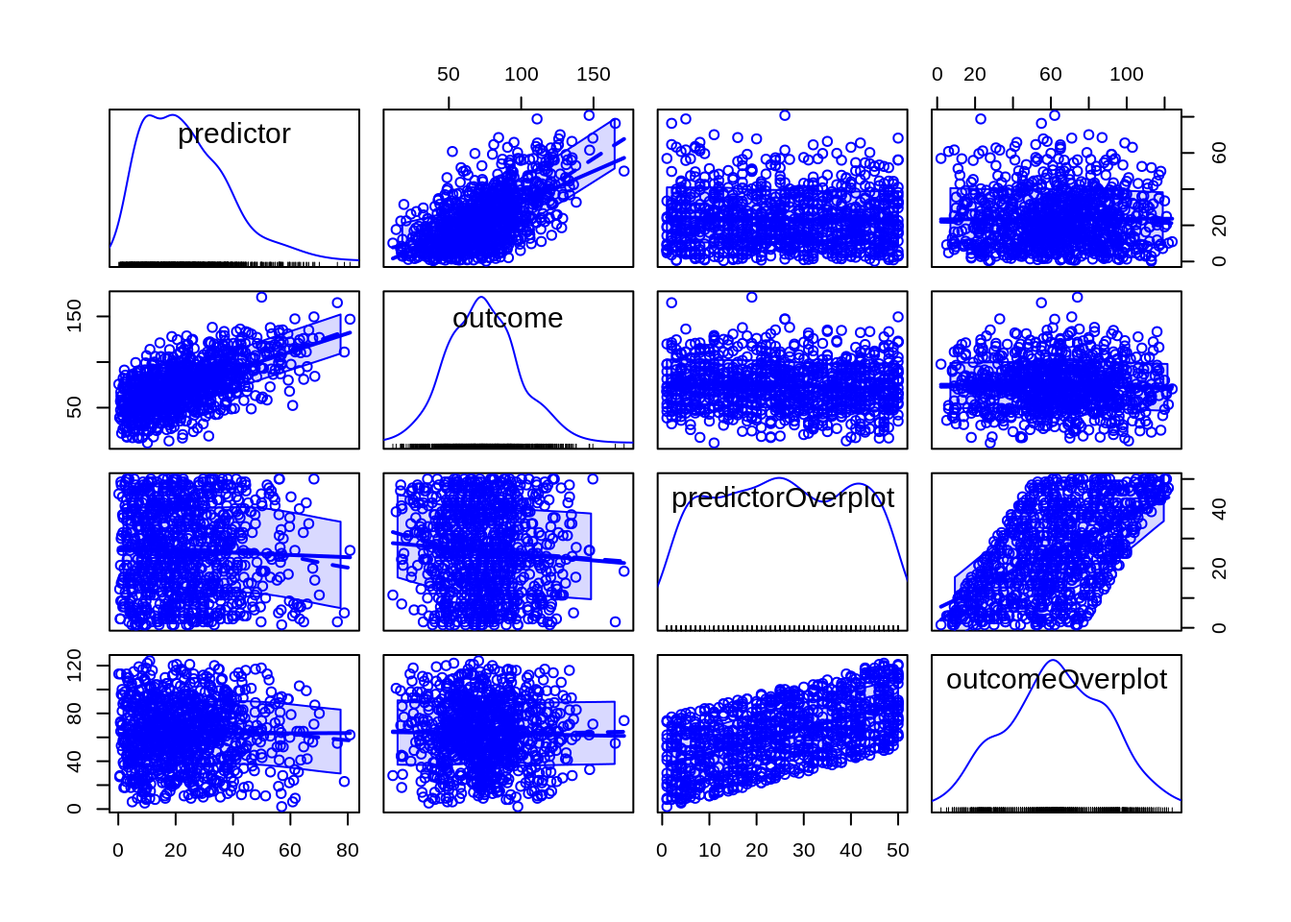
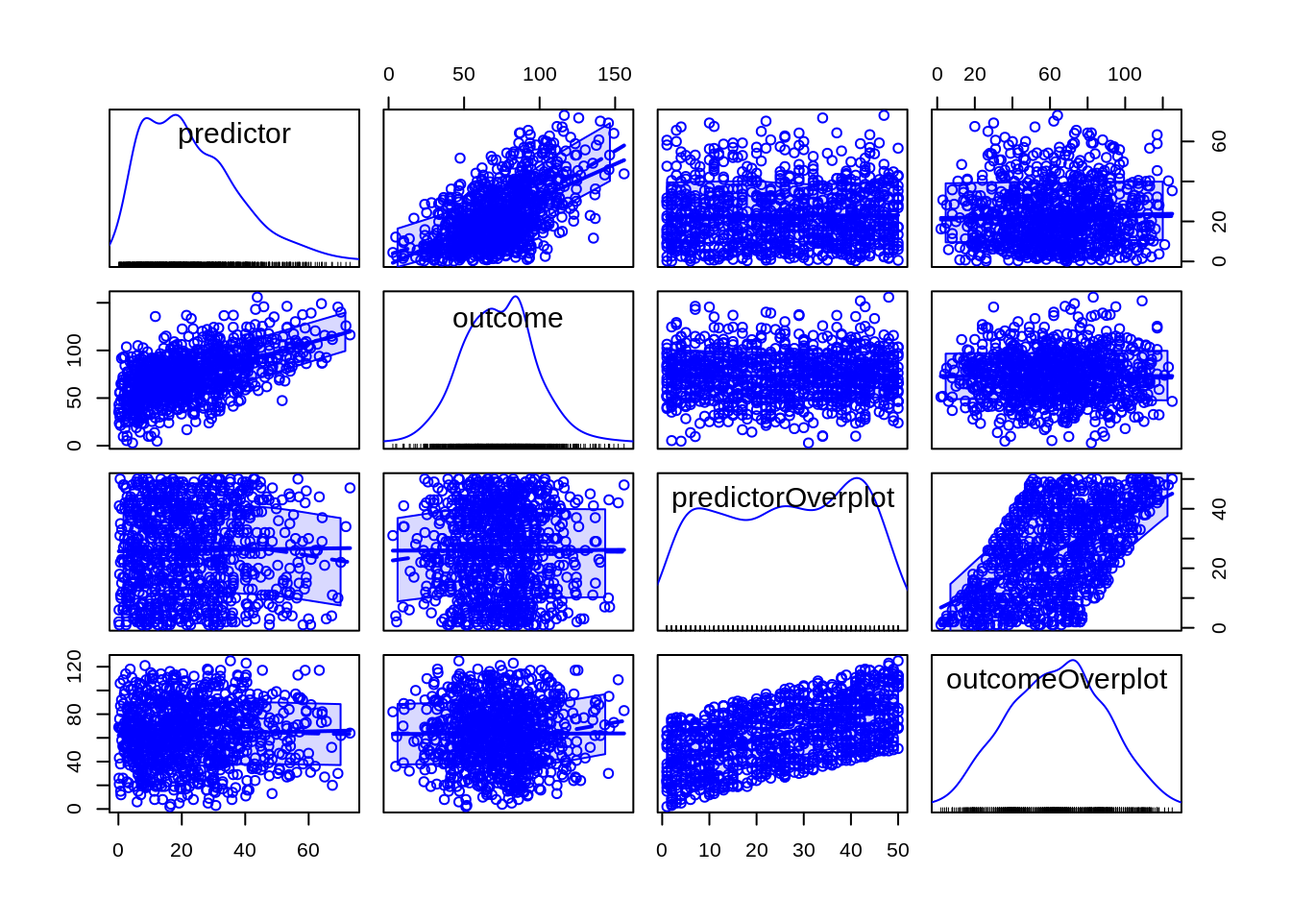
isaactpetersen published a site update

diff --git a/analysis-eda.html b/analysis-eda.html
@@ -512,7 +512,7 @@ df[sample(1:n, size = 70), &quot;categorical2&quot;] &lt;- NA</code></pre>
 <pre class="r"><code>round(data.frame(psych::describe(df)), 2)</code></pre>
 <div data-pagedtable="false">
 <script data-pagedtable-source type="application/json">
-{"columns":[{"label":[""],"name":["_rn_"],"type":[""],"align":["left"]},{"label":["vars"],"name":[1],"type":["dbl"],"align":["right"]},{"label":["n"],"name":[2],"type":["dbl"],"align":["right"]},{"label":["mean"],"name":[3],"type":["dbl"],"align":["right"]},{"label":["sd"],"name":[4],"type":["dbl"],"align":["right"]},{"label":["median"],"name":[5],"type":["dbl"],"align":["right"]},{"label":["trimmed"],"name":[6],"type":["dbl"],"align":["right"]},{"label":["mad"],"name":[7],"type":["dbl"],"align":["right"]},{"label":["min"],"name":[8],"type":["dbl"],"align":["right"]},{"label":["max"],"name":[9],"type":["dbl"],"align":["right"]},{"label":["range"],"name":[10],"type":["dbl"],"align":["right"]},{"label":["skew"],"name":[11],"type":["dbl"],"align":["right"]},{"label":["kurtosis"],"name":[12],"type":["dbl"],"align":["right"]},{"label":["se"],"name":[13],"type":["dbl"],"align":["right"]}],"data":[{"1":"1","2":"1000","3":"50.50","4":"28.88","5":"50.50","6":"50.50","7":"37.06","8":"1.00","9":"100.00","10":"99.00","11":"0.00","12":"-1.20","13":"0.91","_rn_":"ID"},{"1":"2","2":"990","3":"23.51","4":"14.93","5":"21.52","6":"22.20","7":"15.31","8":"0.18","9":"80.77","10":"80.59","11":"0.78","12":"0.36","13":"0.47","_rn_":"predictor"},{"1":"3","2":"990","3":"73.97","4":"25.41","5":"73.02","6":"73.25","7":"25.78","8":"11.26","9":"171.12","10":"159.87","11":"0.28","12":"0.03","13":"0.81","_rn_":"outcome"},{"1":"4","2":"990","3":"25.86","4":"14.40","5":"26.00","6":"25.90","7":"17.79","8":"1.00","9":"50.00","10":"49.00","11":"-0.01","12":"-1.19","13":"0.46","_rn_":"predictorOverplot"},{"1":"5","2":"990","3":"63.11","4":"26.43","5":"63.00","6":"63.23","7":"28.17","8":"2.00","9":"124.00","10":"122.00","11":"-0.04","12":"-0.67","13":"0.84","_rn_":"outcomeOverplot"},{"1":"6","2":"970","3":"2.99","4":"1.43","5":"3.00","6":"2.99","7":"1.48","8":"1.00","9":"5.00","10":"4.00","11":"0.03","12":"-1.33","13":"0.05","_rn_":"categorical1"},{"1":"7","2":"930","3":"3.06","4":"1.42","5":"3.00","6":"3.08","7":"1.48","8":"1.00","9":"5.00","10":"4.00","11":"-0.06","12":"-1.31","13":"0.05","_rn_":"categorical2"}],"options":{"columns":{"min":{},"max":[10]},"rows":{"min":[10],"max":[10]},"pages":{}}}
+{"columns":[{"label":[""],"name":["_rn_"],"type":[""],"align":["left"]},{"label":["vars"],"name":[1],"type":["dbl"],"align":["right"]},{"label":["n"],"name":[2],"type":["dbl"],"align":["right"]},{"label":["mean"],"name":[3],"type":["dbl"],"align":["right"]},{"label":["sd"],"name":[4],"type":["dbl"],"align":["right"]},{"label":["median"],"name":[5],"type":["dbl"],"align":["right"]},{"label":["trimmed"],"name":[6],"type":["dbl"],"align":["right"]},{"label":["mad"],"name":[7],"type":["dbl"],"align":["right"]},{"label":["min"],"name":[8],"type":["dbl"],"align":["right"]},{"label":["max"],"name":[9],"type":["dbl"],"align":["right"]},{"label":["range"],"name":[10],"type":["dbl"],"align":["right"]},{"label":["skew"],"name":[11],"type":["dbl"],"align":["right"]},{"label":["kurtosis"],"name":[12],"type":["dbl"],"align":["right"]},{"label":["se"],"name":[13],"type":["dbl"],"align":["right"]}],"data":[{"1":"1","2":"1000","3":"50.50","4":"28.88","5":"50.50","6":"50.50","7":"37.06","8":"1.00","9":"100.00","10":"99.00","11":"0.00","12":"-1.20","13":"0.91","_rn_":"ID"},{"1":"2","2":"990","3":"22.88","4":"14.90","5":"20.39","6":"21.56","7":"15.45","8":"0.13","9":"73.05","10":"72.92","11":"0.74","12":"0.08","13":"0.47","_rn_":"predictor"},{"1":"3","2":"990","3":"73.06","4":"24.91","5":"72.69","6":"72.74","7":"24.39","8":"2.84","9":"155.91","10":"153.08","11":"0.15","12":"0.10","13":"0.79","_rn_":"outcome"},{"1":"4","2":"990","3":"26.03","4":"14.65","5":"26.50","6":"26.20","7":"18.53","8":"1.00","9":"50.00","10":"49.00","11":"-0.09","12":"-1.24","13":"0.47","_rn_":"predictorOverplot"},{"1":"5","2":"990","3":"63.50","4":"25.74","5":"64.00","6":"63.62","7":"28.17","8":"2.00","9":"125.00","10":"123.00","11":"-0.04","12":"-0.65","13":"0.82","_rn_":"outcomeOverplot"},{"1":"6","2":"970","3":"3.08","4":"1.39","5":"3.00","6":"3.09","7":"1.48","8":"1.00","9":"5.00","10":"4.00","11":"-0.05","12":"-1.27","13":"0.04","_rn_":"categorical1"},{"1":"7","2":"930","3":"3.03","4":"1.41","5":"3.00","6":"3.04","7":"1.48","8":"1.00","9":"5.00","10":"4.00","11":"-0.06","12":"-1.29","13":"0.05","_rn_":"categorical2"}],"options":{"columns":{"min":{},"max":[10]},"rows":{"min":[10],"max":[10]},"pages":{}}}
   </script>
 </div>
 <div id="sample" class="section level2" number="4.1">
@@ -556,8 +556,8 @@ categorical2      0.07</code></pre>
   sapply(function(x) table(x, useNA = &quot;always&quot;)) %&gt;% 
   t()</code></pre>
 <pre><code>               1   2   3   4   5 &lt;NA&gt;
-categorical1 196 206 184 181 203   30
-categorical2 175 184 178 195 198   70</code></pre>
+categorical1 164 207 191 208 200   30
+categorical2 188 165 192 199 186   70</code></pre>
 </div>
 <div id="central-tendency" class="section level2" number="4.3">
 <h2><span class="header-section-number">4.3</span> Central Tendency</h2>
@@ -566,20 +566,20 @@ categorical2 175 184 178 195 198   70</code></pre>
 </ul>
 <pre class="r"><code>round(colMeans(df, na.rm = TRUE), 2)</code></pre>
 <pre><code>               ID         predictor           outcome predictorOverplot 
-            50.50             23.51             73.97             25.86 
+            50.50             22.88             73.06             26.03 
   outcomeOverplot      categorical1      categorical2 
-            63.11              2.99              3.06 </code></pre>
+            63.50              3.08              3.03 </code></pre>
 <pre class="r"><code>round(apply(df, 2, function(x) mean(x, na.rm = TRUE)), 2)</code></pre>
 <pre><code>               ID         predictor           outcome predictorOverplot 
-            50.50             23.51             73.97             25.86 
+            50.50             22.88             73.06             26.03 
   outcomeOverplot      categorical1      categorical2 
-            63.11              2.99              3.06 </code></pre>
+            63.50              3.08              3.03 </code></pre>
 <pre class="r"><code>df %&gt;% 
   summarise_all(list(~ mean(., na.rm = TRUE))) %&gt;% 
   round(., 2)</code></pre>
 <div data-pagedtable="false">
 <script data-pagedtable-source type="application/json">
-{"columns":[{"label":["ID"],"name":[1],"type":["dbl"],"align":["right"]},{"label":["predictor"],"name":[2],"type":["dbl"],"align":["right"]},{"label":["outcome"],"name":[3],"type":["dbl"],"align":["right"]},{"label":["predictorOverplot"],"name":[4],"type":["dbl"],"align":["right"]},{"label":["outcomeOverplot"],"name":[5],"type":["dbl"],"align":["right"]},{"label":["categorical1"],"name":[6],"type":["dbl"],"align":["right"]},{"label":["categorical2"],"name":[7],"type":["dbl"],"align":["right"]}],"data":[{"1":"50.5","2":"23.51","3":"73.97","4":"25.86","5":"63.11","6":"2.99","7":"3.06"}],"options":{"columns":{"min":{},"max":[10]},"rows":{"min":[10],"max":[10]},"pages":{}}}
+{"columns":[{"label":["ID"],"name":[1],"type":["dbl"],"align":["right"]},{"label":["predictor"],"name":[2],"type":["dbl"],"align":["right"]},{"label":["outcome"],"name":[3],"type":["dbl"],"align":["right"]},{"label":["predictorOverplot"],"name":[4],"type":["dbl"],"align":["right"]},{"label":["outcomeOverplot"],"name":[5],"type":["dbl"],"align":["right"]},{"label":["categorical1"],"name":[6],"type":["dbl"],"align":["right"]},{"label":["categorical2"],"name":[7],"type":["dbl"],"align":["right"]}],"data":[{"1":"50.5","2":"22.88","3":"73.06","4":"26.03","5":"63.5","6":"3.08","7":"3.03"}],"options":{"columns":{"min":{},"max":[10]},"rows":{"min":[10],"max":[10]},"pages":{}}}
   </script>
 </div>
 <ul>
@@ -587,15 +587,15 @@ categorical2 175 184 178 195 198   70</code></pre>
 </ul>
 <pre class="r"><code>round(apply(df, 2, function(x) median(x, na.rm = TRUE)), 2)</code></pre>
 <pre><code>               ID         predictor           outcome predictorOverplot 
-            50.50             21.52             73.02             26.00 
+            50.50             20.39             72.69             26.50 
   outcomeOverplot      categorical1      categorical2 
-            63.00              3.00              3.00 </code></pre>
+            64.00              3.00              3.00 </code></pre>
 <pre class="r"><code>df %&gt;% 
   summarise_all(list(~ median(., na.rm = TRUE))) %&gt;% 
   round(., 2)</code></pre>
 <div data-pagedtable="false">
 <script data-pagedtable-source type="application/json">
-{"columns":[{"label":["ID"],"name":[1],"type":["dbl"],"align":["right"]},{"label":["predictor"],"name":[2],"type":["dbl"],"align":["right"]},{"label":["outcome"],"name":[3],"type":["dbl"],"align":["right"]},{"label":["predictorOverplot"],"name":[4],"type":["dbl"],"align":["right"]},{"label":["outcomeOverplot"],"name":[5],"type":["dbl"],"align":["right"]},{"label":["categorical1"],"name":[6],"type":["dbl"],"align":["right"]},{"label":["categorical2"],"name":[7],"type":["dbl"],"align":["right"]}],"data":[{"1":"50.5","2":"21.52","3":"73.02","4":"26","5":"63","6":"3","7":"3"}],"options":{"columns":{"min":{},"max":[10]},"rows":{"min":[10],"max":[10]},"pages":{}}}
+{"columns":[{"label":["ID"],"name":[1],"type":["dbl"],"align":["right"]},{"label":["predictor"],"name":[2],"type":["dbl"],"align":["right"]},{"label":["outcome"],"name":[3],"type":["dbl"],"align":["right"]},{"label":["predictorOverplot"],"name":[4],"type":["dbl"],"align":["right"]},{"label":["outcomeOverplot"],"name":[5],"type":["dbl"],"align":["right"]},{"label":["categorical1"],"name":[6],"type":["dbl"],"align":["right"]},{"label":["categorical2"],"name":[7],"type":["dbl"],"align":["right"]}],"data":[{"1":"50.5","2":"20.39","3":"72.69","4":"26.5","5":"64","6":"3","7":"3"}],"options":{"columns":{"min":{},"max":[10]},"rows":{"min":[10],"max":[10]},"pages":{}}}
   </script>
 </div>
 <ul>
@@ -603,15 +603,15 @@ categorical2 175 184 178 195 198   70</code></pre>
 </ul>
 <pre class="r"><code>round(apply(df, 2, function(x) Mode(x, multipleModes = &quot;mean&quot;)), 2)</code></pre>
 <pre><code>               ID         predictor           outcome predictorOverplot 
-            50.50             23.51             73.97             25.00 
+            50.50             22.88             73.06             42.00 
   outcomeOverplot      categorical1      categorical2 
-            58.00              2.00              5.00 </code></pre>
+            69.00              4.00              4.00 </code></pre>
 <pre class="r"><code>df %&gt;% 
   summarise_all(list(~ Mode(., multipleModes = &quot;mean&quot;))) %&gt;% 
   round(., 2)</code></pre>
 <div data-pagedtable="false">
 <script data-pagedtable-source type="application/json">
-{"columns":[{"label":["ID"],"name":[1],"type":["dbl"],"align":["right"]},{"label":["predictor"],"name":[2],"type":["dbl"],"align":["right"]},{"label":["outcome"],"name":[3],"type":["dbl"],"align":["right"]},{"label":["predictorOverplot"],"name":[4],"type":["dbl"],"align":["right"]},{"label":["outcomeOverplot"],"name":[5],"type":["dbl"],"align":["right"]},{"label":["categorical1"],"name":[6],"type":["dbl"],"align":["right"]},{"label":["categorical2"],"name":[7],"type":["dbl"],"align":["right"]}],"data":[{"1":"50.5","2":"23.51","3":"73.97","4":"25","5":"58","6":"2","7":"5"}],"options":{"columns":{"min":{},"max":[10]},"rows":{"min":[10],"max":[10]},"pages":{}}}
+{"columns":[{"label":["ID"],"name":[1],"type":["dbl"],"align":["right"]},{"label":["predictor"],"name":[2],"type":["dbl"],"align":["right"]},{"label":["outcome"],"name":[3],"type":["dbl"],"align":["right"]},{"label":["predictorOverplot"],"name":[4],"type":["dbl"],"align":["right"]},{"label":["outcomeOverplot"],"name":[5],"type":["dbl"],"align":["right"]},{"label":["categorical1"],"name":[6],"type":["dbl"],"align":["right"]},{"label":["categorical2"],"name":[7],"type":["dbl"],"align":["right"]}],"data":[{"1":"50.5","2":"22.88","3":"73.06","4":"42","5":"69","6":"4","7":"4"}],"options":{"columns":{"min":{},"max":[10]},"rows":{"min":[10],"max":[10]},"pages":{}}}
   </script>
 </div>
 <p>Compute all of these measures of central tendency:</p>
@@ -628,7 +628,7 @@ categorical2 175 184 178 195 198   70</code></pre>
   rename(mode = Mode)</code></pre>
 <div data-pagedtable="false">
 <script data-pagedtable-source type="application/json">
-{"columns":[{"label":["variable"],"name":[1],"type":["chr"],"align":["left"]},{"label":["mean"],"name":[2],"type":["dbl"],"align":["right"]},{"label":["median"],"name":[3],"type":["dbl"],"align":["right"]},{"label":["mode"],"name":[4],"type":["dbl"],"align":["right"]}],"data":[{"1":"ID","2":"50.50","3":"50.50","4":"50.50"},{"1":"predictor","2":"23.51","3":"21.52","4":"23.51"},{"1":"outcome","2":"73.97","3":"73.02","4":"73.97"},{"1":"predictorOverplot","2":"25.86","3":"26.00","4":"25.00"},{"1":"outcomeOverplot","2":"63.11","3":"63.00","4":"58.00"},{"1":"categorical1","2":"2.99","3":"3.00","4":"2.00"},{"1":"categorical2","2":"3.06","3":"3.00","4":"5.00"}],"options":{"columns":{"min":{},"max":[10]},"rows":{"min":[10],"max":[10]},"pages":{}}}
+{"columns":[{"label":["variable"],"name":[1],"type":["chr"],"align":["left"]},{"label":["mean"],"name":[2],"type":["dbl"],"align":["right"]},{"label":["median"],"name":[3],"type":["dbl"],"align":["right"]},{"label":["mode"],"name":[4],"type":["dbl"],"align":["right"]}],"data":[{"1":"ID","2":"50.50","3":"50.50","4":"50.50"},{"1":"predictor","2":"22.88","3":"20.39","4":"22.88"},{"1":"outcome","2":"73.06","3":"72.69","4":"73.06"},{"1":"predictorOverplot","2":"26.03","3":"26.50","4":"42.00"},{"1":"outcomeOverplot","2":"63.50","3":"64.00","4":"69.00"},{"1":"categorical1","2":"3.08","3":"3.00","4":"4.00"},{"1":"categorical2","2":"3.03","3":"3.00","4":"4.00"}],"options":{"columns":{"min":{},"max":[10]},"rows":{"min":[10],"max":[10]},"pages":{}}}
   </script>
 </div>
 </div>
@@ -657,7 +657,7 @@ categorical2 175 184 178 195 198   70</code></pre>
          kurtosis = kurtosi)</code></pre>
 <div data-pagedtable="false">
 <script data-pagedtable-source type="application/json">
-{"columns":[{"label":["variable"],"name":[1],"type":["chr"],"align":["left"]},{"label":["sd"],"name":[2],"type":["dbl"],"align":["right"]},{"label":["min"],"name":[3],"type":["dbl"],"align":["right"]},{"label":["max"],"name":[4],"type":["dbl"],"align":["right"]},{"label":["skewness"],"name":[5],"type":["dbl"],"align":["right"]},{"label":["kurtosis"],"name":[6],"type":["dbl"],"align":["right"]}],"data":[{"1":"ID","2":"28.88","3":"1.00","4":"100.00","5":"0.00","6":"-1.20"},{"1":"predictor","2":"14.93","3":"0.18","4":"80.77","5":"0.78","6":"0.36"},{"1":"outcome","2":"25.41","3":"11.26","4":"171.12","5":"0.28","6":"0.03"},{"1":"predictorOverplot","2":"14.40","3":"1.00","4":"50.00","5":"-0.01","6":"-1.19"},{"1":"outcomeOverplot","2":"26.43","3":"2.00","4":"124.00","5":"-0.04","6":"-0.67"},{"1":"categorical1","2":"1.43","3":"1.00","4":"5.00","5":"0.03","6":"-1.33"},{"1":"categorical2","2":"1.42","3":"1.00","4":"5.00","5":"-0.06","6":"-1.31"}],"options":{"columns":{"min":{},"max":[10]},"rows":{"min":[10],"max":[10]},"pages":{}}}
+{"columns":[{"label":["variable"],"name":[1],"type":["chr"],"align":["left"]},{"label":["sd"],"name":[2],"type":["dbl"],"align":["right"]},{"label":["min"],"name":[3],"type":["dbl"],"align":["right"]},{"label":["max"],"name":[4],"type":["dbl"],"align":["right"]},{"label":["skewness"],"name":[5],"type":["dbl"],"align":["right"]},{"label":["kurtosis"],"name":[6],"type":["dbl"],"align":["right"]}],"data":[{"1":"ID","2":"28.88","3":"1.00","4":"100.00","5":"0.00","6":"-1.20"},{"1":"predictor","2":"14.90","3":"0.13","4":"73.05","5":"0.74","6":"0.08"},{"1":"outcome","2":"24.91","3":"2.84","4":"155.91","5":"0.15","6":"0.10"},{"1":"predictorOverplot","2":"14.65","3":"1.00","4":"50.00","5":"-0.09","6":"-1.24"},{"1":"outcomeOverplot","2":"25.74","3":"2.00","4":"125.00","5":"-0.04","6":"-0.65"},{"1":"categorical1","2":"1.39","3":"1.00","4":"5.00","5":"-0.05","6":"-1.27"},{"1":"categorical2","2":"1.41","3":"1.00","4":"5.00","5":"-0.06","6":"-1.29"}],"options":{"columns":{"min":{},"max":[10]},"rows":{"min":[10],"max":[10]},"pages":{}}}
   </script>
 </div>
 </div>
@@ -691,14 +691,14 @@ summaryTableTransposed &lt;- summaryTable[-1] %&gt;%
   round(., digits = 2)
 
 cor.table(df, type = &quot;manuscript&quot;)</code></pre>
-<pre><code>                       ID predictor outcome predictorOverplot outcomeOverplot
-1. ID                1.00                                                    
-2. predictor          .05      1.00                                          
-3. outcome           -.04    .59***    1.00                                  
-4. predictorOverplot  .04      -.04   -.07*              1.00                
-5. outcomeOverplot    .04       .00    -.02            .56***            1.00
-6. categorical1      -.01      -.02    -.02               .01            .07*
-7. categorical2      -.01      -.01     .03               .03             .05
+<pre><code>                        ID predictor outcome predictorOverplot outcomeOverplot
+1. ID                 1.00                                                    
+2. predictor           .01      1.00                                          
+3. outcome            -.01    .56***    1.00                                  
+4. predictorOverplot  -.02       .01     .00              1.00                
+5. outcomeOverplot    -.04       .03     .00            .54***            1.00
+6. categorical1        .05      -.05     .03               .00            -.04
+7. categorical2      -.06†      -.01    -.01              .06†            .07*
                      categorical1 categorical2
 1. ID                                         
 2. predictor                                  
@@ -706,11 +706,11 @@ cor.table(df, type = &quot;manuscript&quot;)</code></pre>
 4. predictorOverplot                          
 5. outcomeOverplot                            
 6. categorical1              1.00             
-7. categorical2               .00         1.00</code></pre>
+7. categorical2              -.02         1.00</code></pre>
 <pre class="r"><code>summaryTableTransposed</code></pre>
 <div data-pagedtable="false">
 <script data-pagedtable-source type="application/json">
-{"columns":[{"label":[""],"name":["_rn_"],"type":[""],"align":["left"]},{"label":["ID"],"name":[1],"type":["dbl"],"align":["right"]},{"label":["predictor"],"name":[2],"type":["dbl"],"align":["right"]},{"label":["outcome"],"name":[3],"type":["dbl"],"align":["right"]},{"label":["predictorOverplot"],"name":[4],"type":["dbl"],"align":["right"]},{"label":["outcomeOverplot"],"name":[5],"type":["dbl"],"align":["right"]},{"label":["categorical1"],"name":[6],"type":["dbl"],"align":["right"]},{"label":["categorical2"],"name":[7],"type":["dbl"],"align":["right"]}],"data":[{"1":"1000.00","2":"990.00","3":"990.00","4":"990.00","5":"990.00","6":"970.00","7":"930.00","_rn_":"n"},{"1":"0.00","2":"1.00","3":"1.00","4":"1.00","5":"1.00","6":"3.00","7":"7.00","_rn_":"missingness"},{"1":"50.50","2":"23.51","3":"73.97","4":"25.86","5":"63.11","6":"2.99","7":"3.06","_rn_":"M"},{"1":"28.88","2":"14.93","3":"25.41","4":"14.40","5":"26.43","6":"1.43","7":"1.42","_rn_":"SD"},{"1":"0.00","2":"0.78","3":"0.28","4":"-0.01","5":"-0.04","6":"0.03","7":"-0.06","_rn_":"skewness"},{"1":"-1.20","2":"0.36","3":"0.03","4":"-1.19","5":"-0.67","6":"-1.33","7":"-1.31","_rn_":"kurtosis"}],"options":{"columns":{"min":{},"max":[10]},"rows":{"min":[10],"max":[10]},"pages":{}}}
+{"columns":[{"label":[""],"name":["_rn_"],"type":[""],"align":["left"]},{"label":["ID"],"name":[1],"type":["dbl"],"align":["right"]},{"label":["predictor"],"name":[2],"type":["dbl"],"align":["right"]},{"label":["outcome"],"name":[3],"type":["dbl"],"align":["right"]},{"label":["predictorOverplot"],"name":[4],"type":["dbl"],"align":["right"]},{"label":["outcomeOverplot"],"name":[5],"type":["dbl"],"align":["right"]},{"label":["categorical1"],"name":[6],"type":["dbl"],"align":["right"]},{"label":["categorical2"],"name":[7],"type":["dbl"],"align":["right"]}],"data":[{"1":"1000.00","2":"990.00","3":"990.00","4":"990.00","5":"990.00","6":"970.00","7":"930.00","_rn_":"n"},{"1":"0.00","2":"1.00","3":"1.00","4":"1.00","5":"1.00","6":"3.00","7":"7.00","_rn_":"missingness"},{"1":"50.50","2":"22.88","3":"73.06","4":"26.03","5":"63.50","6":"3.08","7":"3.03","_rn_":"M"},{"1":"28.88","2":"14.90","3":"24.91","4":"14.65","5":"25.74","6":"1.39","7":"1.41","_rn_":"SD"},{"1":"0.00","2":"0.74","3":"0.15","4":"-0.09","5":"-0.04","6":"-0.05","7":"-0.06","_rn_":"skewness"},{"1":"-1.20","2":"0.08","3":"0.10","4":"-1.24","5":"-0.65","6":"-1.27","7":"-1.29","_rn_":"kurtosis"}],"options":{"columns":{"min":{},"max":[10]},"rows":{"min":[10],"max":[10]},"pages":{}}}
   </script>
 </div>
 </div>
@@ -855,84 +855,84 @@ dataEllipse(df_nomissing$predictor, df_nomissing$outcome, levels = c(0.5, .95))<
 <h4><span class="header-section-number">6.3.1.1</span> Pearson Correlations</h4>
 <pre class="r"><code>cor.table(df[,c(&quot;predictor&quot;,&quot;outcome&quot;,&quot;predictorOverplot&quot;,&quot;outcomeOverplot&quot;)])</code></pre>
 <pre><code>                       predictor outcome predictorOverplot outcomeOverplot
-1. predictor.r              1.00  .59***              -.04             .00
-2. sig                        NA     .00               .22             .88
-3. n                         990     980               980             980
-4. outcome.r              .59***    1.00             -.07*            -.02
-5. sig                       .00      NA               .02             .55
+1. predictor.r              1.00  .56***               .01             .03
+2. sig                        NA     .00               .65             .35
+3. n                         990     980               980             981
+4. outcome.r              .56***    1.00               .00             .00
+5. sig                       .00      NA               .93             .92
 6. n                         980     990               980             980
-7. predictorOverplot.r      -.04   -.07*              1.00          .56***
-8. sig                       .22     .02                NA             .00
+7. predictorOverplot.r       .01     .00              1.00          .54***
+8. sig                       .65     .93                NA             .00
 9. n                         980     980               990             980
-10. outcomeOverplot.r        .00    -.02            .56***            1.00
-11. sig                      .88     .55               .00              NA
-12. n                        980     980               980             990</code></pre>
+10. outcomeOverplot.r        .03     .00            .54***            1.00
+11. sig                      .35     .92               .00              NA
+12. n                        981     980               980             990</code></pre>
 <pre class="r"><code>cor.table(df[,c(&quot;predictor&quot;,&quot;outcome&quot;,&quot;predictorOverplot&quot;,&quot;outcomeOverplot&quot;)], type = &quot;manuscript&quot;)</code></pre>
 <pre><code>                     predictor outcome predictorOverplot outcomeOverplot
 1. predictor              1.00                                          
-2. outcome              .59***    1.00                                  
-3. predictorOverplot      -.04   -.07*              1.00                
-4. outcomeOverplot         .00    -.02            .56***            1.00</code></pre>
+2. outcome              .56***    1.00                                  
+3. predictorOverplot       .01     .00              1.00                
+4. outcomeOverplot         .03     .00            .54***            1.00</code></pre>
 <pre class="r"><code>cor.table(df[,c(&quot;predictor&quot;,&quot;outcome&quot;,&quot;predictorOverplot&quot;,&quot;outcomeOverplot&quot;)], type = &quot;manuscriptBig&quot;)</code></pre>
 <pre><code>                     predictor outcome predictorOverplot outcomeOverplot
 1. predictor              1.00                                          
-2. outcome                 .59    1.00                                  
-3. predictorOverplot      -.04    -.07              1.00                
-4. outcomeOverplot         .00    -.02               .56            1.00</code></pre>
+2. outcome                 .56    1.00                                  
+3. predictorOverplot       .01     .00              1.00                
+4. outcomeOverplot         .03     .00               .54            1.00</code></pre>
 </div>
 <div id="spearman-correlations" class="section level4" number="6.3.1.2">
 <h4><span class="header-section-number">6.3.1.2</span> Spearman Correlations</h4>
 <pre class="r"><code>cor.table(df[,c(&quot;predictor&quot;,&quot;outcome&quot;,&quot;predictorOverplot&quot;,&quot;outcomeOverplot&quot;)], correlation = &quot;spearman&quot;)</code></pre>
 <pre><code>                       predictor outcome predictorOverplot outcomeOverplot
-1. predictor.r              1.00  .56***              -.03             .03
-2. sig                        NA     .00               .40             .43
-3. n                         990     980               980             980
-4. outcome.r              .56***    1.00             -.07*            -.02
-5. sig                       .00      NA               .04             .49
+1. predictor.r              1.00  .53***               .03             .04
+2. sig                        NA     .00               .30             .26
+3. n                         990     980               980             981
+4. outcome.r              .53***    1.00               .00            -.01
+5. sig                       .00      NA               .99             .73
 6. n                         980     990               980             980
-7. predictorOverplot.r      -.03   -.07*              1.00          .53***
-8. sig                       .40     .04                NA             .00
+7. predictorOverplot.r       .03     .00              1.00          .52***
+8. sig                       .30     .99                NA             .00
 9. n                         980     980               990             980
-10. outcomeOverplot.r        .03    -.02            .53***            1.00
-11. sig                      .43     .49               .00              NA
-12. n                        980     980               980             990</code></pre>
+10. outcomeOverplot.r        .04    -.01            .52***            1.00
+11. sig                      .26     .73               .00              NA
+12. n                        981     980               980             990</code></pre>
 <pre class="r"><code>cor.table(df[,c(&quot;predictor&quot;,&quot;outcome&quot;,&quot;predictorOverplot&quot;,&quot;outcomeOverplot&quot;)], type = &quot;manuscript&quot;, correlation = &quot;spearman&quot;)</code></pre>
 <pre><code>                     predictor outcome predictorOverplot outcomeOverplot
 1. predictor              1.00                                          
-2. outcome              .56***    1.00                                  
-3. predictorOverplot      -.03   -.07*              1.00                
-4. outcomeOverplot         .03    -.02            .53***            1.00</code></pre>
+2. outcome              .53***    1.00                                  
+3. predictorOverplot       .03     .00              1.00                
+4. outcomeOverplot         .04    -.01            .52***            1.00</code></pre>
 <pre class="r"><code>cor.table(df[,c(&quot;predictor&quot;,&quot;outcome&quot;,&quot;predictorOverplot&quot;,&quot;outcomeOverplot&quot;)], type = &quot;manuscriptBig&quot;, correlation = &quot;spearman&quot;)</code></pre>
 <pre><code>                     predictor outcome predictorOverplot outcomeOverplot
 1. predictor              1.00                                          
-2. outcome                 .56    1.00                                  
-3. predictorOverplot      -.03    -.07              1.00                
-4. outcomeOverplot         .03    -.02               .53            1.00</code></pre>
+2. outcome                 .53    1.00                                  
+3. predictorOverplot       .03     .00              1.00                
+4. outcomeOverplot         .04    -.01               .52            1.00</code></pre>
 </div>
 <div id="partial-correlations" class="section level4" number="6.3.1.3">
 <h4><span class="header-section-number">6.3.1.3</span> Partial Correlations</h4>
 <p>Examine the associations among variables controlling for a covariate (<code>outcomeOverplot</code>).</p>
 <pre class="r"><code>partialcor.table(df[,c(&quot;predictor&quot;,&quot;outcome&quot;,&quot;predictorOverplot&quot;)], z = df[,c(&quot;outcomeOverplot&quot;)])</code></pre>
 <pre><code>                       predictor outcome predictorOverplot
-1. predictor.r              1.00  .59***              -.05
-2. sig                        NA     .00               .12
-3. n                         980     970               970
-4. outcome.r              .59***    1.00             -.08*
-5. sig                       .00      NA               .02
-6. n                         970     980               970
-7. predictorOverplot.r      -.05   -.08*              1.00
-8. sig                       .12     .02                NA
-9. n                         970     970               980</code></pre>
+1. predictor.r              1.00  .56***               .00
+2. sig                        NA     .00               .95
+3. n                         981     971               971
+4. outcome.r              .56***    1.00               .00
+5. sig                       .00      NA               .97
+6. n                         971     980               970
+7. predictorOverplot.r       .00     .00              1.00
+8. sig                       .95     .97                NA
+9. n                         971     970               980</code></pre>
 <pre class="r"><code>partialcor.table(df[,c(&quot;predictor&quot;,&quot;outcome&quot;,&quot;predictorOverplot&quot;)], z = df[,c(&quot;outcomeOverplot&quot;)], type = &quot;manuscript&quot;)</code></pre>
 <pre><code>                     predictor outcome predictorOverplot
 1. predictor              1.00                          
-2. outcome              .59***    1.00                  
-3. predictorOverplot      -.05   -.08*              1.00</code></pre>
+2. outcome              .56***    1.00                  
+3. predictorOverplot       .00     .00              1.00</code></pre>
 <pre class="r"><code>partialcor.table(df[,c(&quot;predictor&quot;,&quot;outcome&quot;,&quot;predictorOverplot&quot;)], z = df[,c(&quot;outcomeOverplot&quot;)], type = &quot;manuscriptBig&quot;)</code></pre>
 <pre><code>                     predictor outcome predictorOverplot
 1. predictor              1.00                          
-2. outcome                 .59    1.00                  
-3. predictorOverplot      -.05    -.08              1.00</code></pre>
+2. outcome                 .56    1.00                  
+3. predictorOverplot       .00     .00              1.00</code></pre>
 </div>
 </div>
 <div id="correlogram" class="section level3" number="6.3.2">
@@ -961,13 +961,13 @@ allEffects(multipleRegressionModel)</code></pre>
 
  predictor effect
 predictor
-      0.2        20        40        60        80 
- 50.64527  70.58483  90.72580 110.86677 131.00774 
+      0.1        20        40        50        70 
+ 51.98951  70.41170  88.92646  98.18385 116.69861 
 
  predictorOverplot effect
 predictorOverplot
        1       10       30       40       50 
-76.39400 75.57377 73.75104 72.83968 71.92831 </code></pre>
+73.30574 73.19358 72.94435 72.81973 72.69512 </code></pre>
 <pre class="r"><code>plot(allEffects(multipleRegressionModel))</code></pre>
 <p><img src="analysis-eda_files/figure-html/unnamed-chunk-33-1.png" width="672" /></p>
 </div>
@@ -979,13 +979,13 @@ allEffects(multilevelRegressionModel)</code></pre>
 
  predictor effect
 predictor
-      0.2        20        40        60        80 
- 50.64895  70.58563  90.72370 110.86176 130.99982 
+      0.1        20        40        50        70 
+ 52.05649  70.42647  88.88876  98.11991 116.58220 
 
  predictorOverplot effect
 predictorOverplot
        1       10       30       40       50 
-76.38466 75.56793 73.75297 72.84549 71.93801 </code></pre>
+73.27043 73.17363 72.95853 72.85098 72.74343 </code></pre>
 <pre class="r"><code>plot(allEffects(multilevelRegressionModel))</code></pre>
 <p><img src="analysis-eda_files/figure-html/unnamed-chunk-34-1.png" width="672" /></p>
 </div>
